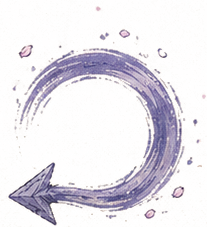
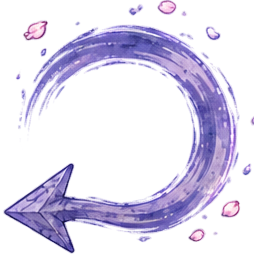
labels tmp

diff --git a/apps/web/src/components/PathOverlay/PathOverlay.tsx b/apps/web/src/components/PathOverlay/PathOverlay.tsx
@@ -13,6 +13,8 @@ import { createPortal } from "react-dom";
 import { animate } from "animejs";
 import { AnimatePresence, motion, useReducedMotion } from "motion/react";
 import { useOptionalCelestialTheme } from "@/app/providers/CelestialThemeProvider";
+import { OverlayNextLabel } from "./OverlayNextLabel/OverlayNextLabel";
+import { OverlayPrevLabel } from "./OverlayPrevLabel/OverlayPrevLabel";
 import styles from "./PathOverlay.module.css";
 import {
   darkMaskForSeam,
@@ -461,8 +463,8 @@ function PathScrim({
       />
 
       <div ref={labelsRef} className={styles.labels} aria-hidden>
-        <motion.span
-          className={`${styles.label} ${styles.labelLeft}`}
+        <motion.div
+          className={styles.labelLeft}
           initial={false}
           animate={
             !reduceMotion && hoveredSide === "dark"
@@ -476,10 +478,10 @@ function PathScrim({
             hoveredSide === "dark" ? labelGlowTransition : { duration: 0.28, ease: GLOW_EASE }
           }
         >
-          Continue the journey
-        </motion.span>
-        <motion.span
-          className={`${styles.label} ${styles.labelRight}`}
+          <OverlayNextLabel />
+        </motion.div>
+        <motion.div
+          className={styles.labelRight}
           initial={false}
           animate={
             !reduceMotion && hoveredSide === "light"
@@ -501,8 +503,8 @@ function PathScrim({
             hoveredSide === "light" ? labelGlowTransition : { duration: 0.28, ease: GLOW_EASE }
           }
         >
-          Go back to the start
-        </motion.span>
+          <OverlayPrevLabel />
+        </motion.div>
       </div>
     </div>
   );

diff --git a/apps/web/src/components/PathOverlay/PathOverlay.module.css b/apps/web/src/components/PathOverlay/PathOverlay.module.css
@@ -60,38 +60,24 @@
   position: absolute;
   inset: 0;
   z-index: 3;
-  display: flex;
-  align-items: center;
-  justify-content: space-between;
-  padding-inline: clamp(1rem, 8vw, 4.5rem);
   pointer-events: none;
   opacity: 0;
 }
 
-.label {
-  max-width: 11rem;
-  font-family: var(--font-lantern-script);
-  font-size: clamp(0.85rem, 2.2vw, 1.05rem);
-  font-weight: 400;
-  letter-spacing: 0.04em;
-  line-height: 1.35;
-  text-align: center;
-  pointer-events: none;
-  will-change: filter, text-shadow;
-}
-
 .labelLeft {
-  color: color-mix(in srgb, #f5f0e8 92%, transparent);
   position: absolute;
   left: 15%;
   bottom: 25%;
+  color: color-mix(in srgb, #f5f0e8 92%, transparent);
+  will-change: filter, text-shadow;
 }
 
 .labelRight {
-  color: color-mix(in srgb, #1a1814 88%, transparent);
   position: absolute;
   right: 15%;
   top: 25%;
+  color: color-mix(in srgb, #1a1814 88%, transparent);
+  will-change: filter, text-shadow;
 }
 
 .content {

diff --git a/apps/web/src/components/PathOverlay/OverlayNextLabel/OverlayNextLabel.tsx b/apps/web/src/components/PathOverlay/OverlayNextLabel/OverlayNextLabel.tsx
@@ -1,0 +1,28 @@
+"use client";
+
+import styles from "./OverlayNextLabel.module.css";
+
+export type OverlayNextLabelProps = {
+  className?: string;
+};
+
+/** Path overlay “continue” cue — own styles; do not share with OverlayPrevLabel. */
+export function OverlayNextLabel({ className }: OverlayNextLabelProps) {
+  const rootClass = [styles.root, className].filter(Boolean).join(" ");
+
+  return (
+    <div className={rootClass}>
+      <span className={styles.label}>Continue the journey</span>
+      {/* eslint-disable-next-line @next/next/no-img-element -- static public asset */}
+      <img
+        className={styles.arrow}
+        src="/overlay/arrow-continue.png"
+        alt=""
+        width={207}
+        height={227}
+        draggable={false}
+        aria-hidden
+      />
+    </div>
+  );
+}

diff --git a/apps/web/src/components/PathOverlay/OverlayPrevLabel/OverlayPrevLabel.tsx b/apps/web/src/components/PathOverlay/OverlayPrevLabel/OverlayPrevLabel.tsx
@@ -1,0 +1,28 @@
+"use client";
+
+import styles from "./OverlayPrevLabel.module.css";
+
+export type OverlayPrevLabelProps = {
+  className?: string;
+};
+
+/** Path overlay “return” cue — own styles; do not share with OverlayNextLabel. */
+export function OverlayPrevLabel({ className }: OverlayPrevLabelProps) {
+  const rootClass = [styles.root, className].filter(Boolean).join(" ");
+
+  return (
+    <div className={rootClass}>
+      <span className={styles.label}>Go back to the start</span>
+      {/* eslint-disable-next-line @next/next/no-img-element -- static public asset */}
+      <img
+        className={styles.arrow}
+        src="/overlay/arrow-return.png"
+        alt=""
+        width={239}
+        height={183}
+        draggable={false}
+        aria-hidden
+      />
+    </div>
+  );
+}

diff --git a/apps/web/src/components/PathOverlay/OverlayNextLabel/OverlayNextLabel.stories.tsx b/apps/web/src/components/PathOverlay/OverlayNextLabel/OverlayNextLabel.stories.tsx
@@ -1,0 +1,22 @@
+import type { Meta, StoryObj } from "@storybook/nextjs-vite";
+import { OverlayNextLabel } from "./OverlayNextLabel";
+import styles from "./OverlayNextLabel.stories.module.css";
+
+const meta = {
+  title: "Haiku/PathOverlay/OverlayNextLabel",
+  component: OverlayNextLabel,
+  parameters: {
+    layout: "centered",
+  },
+} satisfies Meta<typeof OverlayNextLabel>;
+
+export default meta;
+type Story = StoryObj<typeof meta>;
+
+export const Default: Story = {
+  render: (args) => (
+    <div className={styles.stage}>
+      <OverlayNextLabel {...args} />
+    </div>
+  ),
+};

diff --git a/apps/web/src/components/PathOverlay/OverlayPrevLabel/OverlayPrevLabel.stories.tsx b/apps/web/src/components/PathOverlay/OverlayPrevLabel/OverlayPrevLabel.stories.tsx
@@ -1,0 +1,22 @@
+import type { Meta, StoryObj } from "@storybook/nextjs-vite";
+import { OverlayPrevLabel } from "./OverlayPrevLabel";
+import styles from "./OverlayPrevLabel.stories.module.css";
+
+const meta = {
+  title: "Haiku/PathOverlay/OverlayPrevLabel",
+  component: OverlayPrevLabel,
+  parameters: {
+    layout: "centered",
+  },
+} satisfies Meta<typeof OverlayPrevLabel>;
+
+export default meta;
+type Story = StoryObj<typeof meta>;
+
+export const Default: Story = {
+  render: (args) => (
+    <div className={styles.stage}>
+      <OverlayPrevLabel {...args} />
+    </div>
+  ),
+};

diff --git a/apps/web/src/components/PathOverlay/OverlayNextLabel/OverlayNextLabel.module.css b/apps/web/src/components/PathOverlay/OverlayNextLabel/OverlayNextLabel.module.css
@@ -1,0 +1,30 @@
+.root {
+  display: flex;
+  flex-direction: column-reverse;
+  align-items: center;
+  gap: 0.35rem;
+  pointer-events: none;
+  position: relative;
+  width: 18rem;
+  height: 16rem;
+}
+
+.label {
+  font-family: var(--font-lantern-script);
+  font-size: 1.4rem;
+  font-weight: 400;
+  letter-spacing: 0.04em;
+  line-height: 1.35;
+  text-align: center;
+  white-space: nowrap;
+    z-index: 2;
+}
+
+.arrow {
+  display: block;
+  z-index: 1;
+  height: 10rem;
+  object-fit: contain;
+  user-select: none;
+  pointer-events: none;
+}

diff --git a/apps/web/src/components/PathOverlay/OverlayPrevLabel/OverlayPrevLabel.module.css b/apps/web/src/components/PathOverlay/OverlayPrevLabel/OverlayPrevLabel.module.css
@@ -1,0 +1,30 @@
+.root {
+  display: flex;
+  flex-direction: column;
+  align-items: center;
+  gap: 0.35rem;
+  pointer-events: none;
+  position: relative;
+  width: 18rem;
+  height: 16rem;
+}
+
+.label {
+  font-family: var(--font-lantern-script);
+  font-size: 1.4rem;
+  font-weight: 400;
+  letter-spacing: 0.04em;
+  line-height: 1.35;
+  text-align: center;
+  white-space: nowrap;
+    z-index: 2;
+}
+
+.arrow {
+  display: block;
+  z-index: 1;
+  height: 10rem;
+  object-fit: contain;
+  user-select: none;
+  pointer-events: none;
+}

diff --git a/apps/web/src/components/PathOverlay/index.ts b/apps/web/src/components/PathOverlay/index.ts
@@ -4,3 +4,7 @@ export type {
   PathOverlayProps,
   PathOverlaySeam,
 } from "./PathOverlay";
+export { OverlayNextLabel } from "./OverlayNextLabel/OverlayNextLabel";
+export type { OverlayNextLabelProps } from "./OverlayNextLabel/OverlayNextLabel";
+export { OverlayPrevLabel } from "./OverlayPrevLabel/OverlayPrevLabel";
+export type { OverlayPrevLabelProps } from "./OverlayPrevLabel/OverlayPrevLabel";

diff --git a/apps/web/src/components/PathOverlay/OverlayNextLabel/OverlayNextLabel.stories.module.css b/apps/web/src/components/PathOverlay/OverlayNextLabel/OverlayNextLabel.stories.module.css
@@ -1,0 +1,9 @@
+.stage {
+  display: grid;
+  place-items: center;
+  min-width: 16rem;
+  min-height: 14rem;
+  padding: 1.5rem;
+  background: #1a2238;
+  color: color-mix(in srgb, #f5f0e8 92%, transparent);
+}

diff --git a/apps/web/src/components/PathOverlay/OverlayPrevLabel/OverlayPrevLabel.stories.module.css b/apps/web/src/components/PathOverlay/OverlayPrevLabel/OverlayPrevLabel.stories.module.css
@@ -1,0 +1,9 @@
+.stage {
+  display: grid;
+  place-items: center;
+  min-width: 16rem;
+  min-height: 14rem;
+  padding: 1.5rem;
+  background: #f3ead8;
+  color: color-mix(in srgb, #1a1814 88%, transparent);
+}
